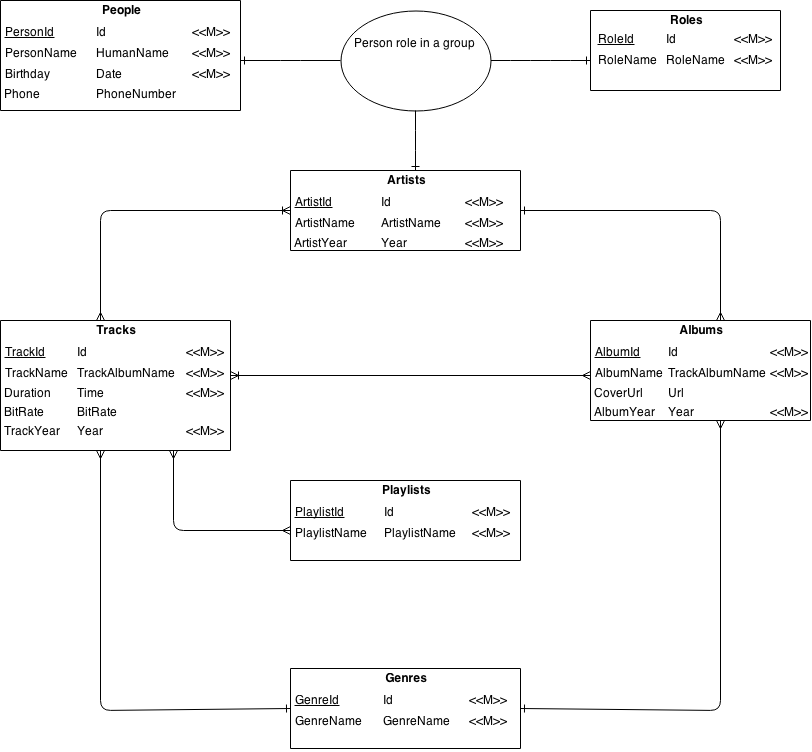
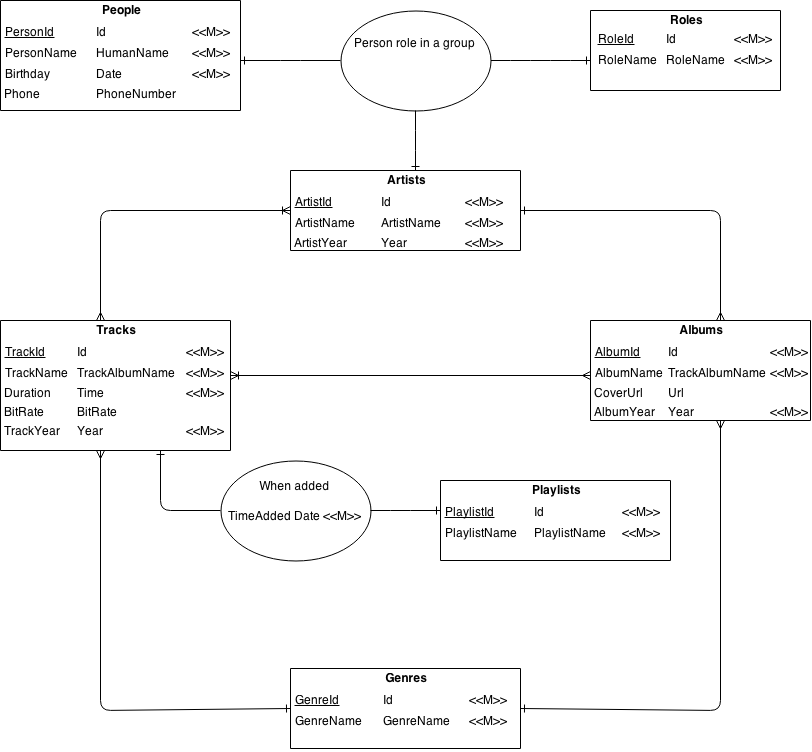
Added some functions and todos

Changed region(s): [[0.2463, 0.6117, 0.7389, 0.734], [0.7697, 0.6729, 0.8005, 0.734]]

diff --git a/course_work/todo.md b/course_work/todo.md
@@ -1,17 +1,17 @@
 Инварианты
-* Число песен в playlist не более 50
-* Год выпуска альбома >= года создания группы
-* Все треки одного альбома имеют один и тот же жанр
-* Если песня в каком-либо альбоме, то один из её исполнителей издал этот альбом
 * Человек может иметь только две роли в группе, только если одна из них певец
 * Во всех группах не больше 1 ударника
 
 Вьюшки
-* Для каждого группы количество их треков, которые есть в базе
+* Для каждой песни частота частота встречаемости в плейлистах (для всех
+  добавлений за последние две недели)
+* Самый популярный певец
 
 Индексы
 * Частые запросы
 ** Все треки определенного альбома
 ** Все треки конкретного исполнителя
 ** Все треки плейлиста 
+
+Программаа для заполнения БД
 
